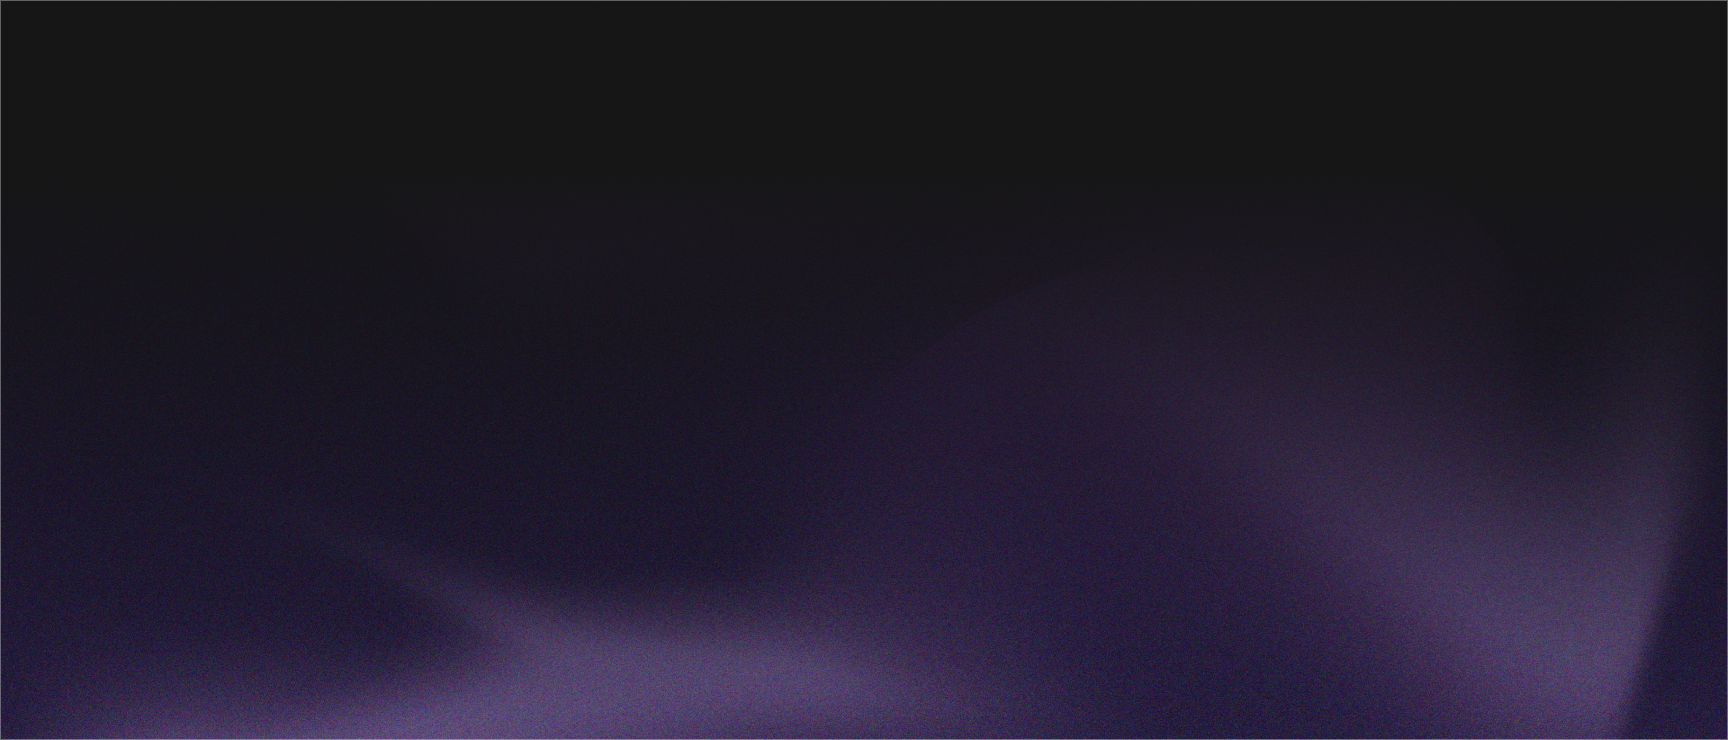
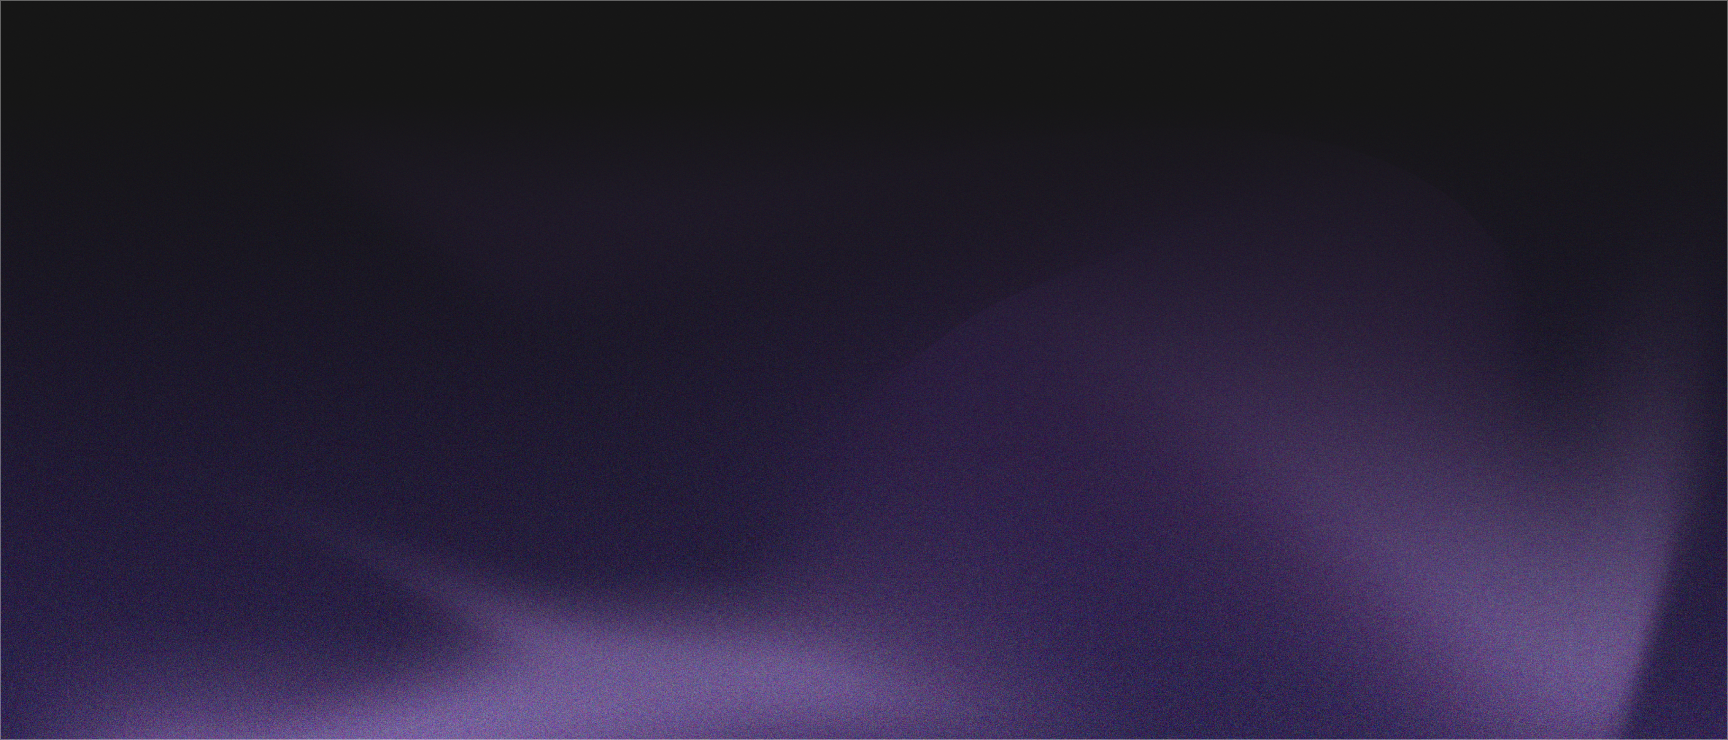
Final styling of Footer-component.

Changed region(s): [[0.0312, 0.8081, 0.625, 1.0], [0.75, 0.5905, 0.9688, 1.0]]

diff --git a/src/components/Footer/Footer.module.css b/src/components/Footer/Footer.module.css
@@ -1,25 +1,24 @@
 .FooterContainer {
-    padding: 30px 10px;
+    padding: 0px 60px;
+    padding-top: 100px;
     display: flex;
     flex-direction: row;
     justify-content: space-between;
     align-items: start;
+    height: 30vh;
+    background-image: url("/public/photos/footerCover.png");
+    background-size: cover;
+    background-repeat: no-repeat;
 }
 
-.logoFooter {
-
-}
 
 .navigationContainer {
     display: flex;
     flex-direction: row;
     gap: 50px;
-    padding-right: 50px;
 }
 
-.linkContainer {
 
-}
 
 .linkContainer h4 {
     font-weight: 400;
